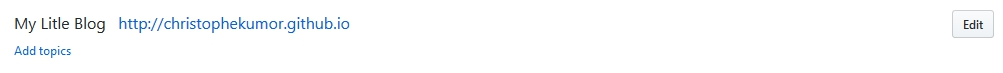
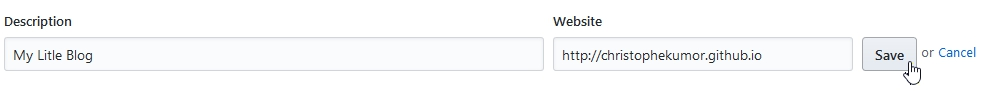
article brut

diff --git a/_posts/2017/2017-04-28-GitHubBlogInstall.md b/_posts/2017/2017-04-28-GitHubBlogInstall.md
@@ -31,19 +31,87 @@ Dédicasse à <b>Thierry Degols</b> ;-) j'espere répondre à tes attentes.
 Pour creer un blog sur Github la premiere chose à faire est de creer un nouveau "repositorie"
 
 Sur sa page Github, on se rend donc dans "Repositories" 
-![image-center](assets/images/articles/2017-04-28-GitHubBlogInstall/Step0a.jpg)
+
+![image-center](/assets/images/articles/2017-04-28-GitHubBlogInstall/Step0a.jpg)
 
 
-puis on clique sur le bouton "New" : 
-![image-center](assets/images/articles/2017-04-28-GitHubBlogInstall/Step0b.jpg)
+puis on clique sur le bouton "New" :
 
-![image-center](assets/images/articles/2017-04-28-GitHubBlogInstall/Step1.jpg)
+![image-center](/assets/images/articles/2017-04-28-GitHubBlogInstall/Step0b.jpg)
 
-<table>
-<p>
-Big Big thanks to <b>LazyWinAdmin</b>  (<a href="https://lazywinadmin.github.io/">Blog</a>), without his help/blog you'll not have read this here..He is an example and a reference for me for a long long time</td>
-</p>
-<p>
-Another Big Big thanks to <b>Mickyballadelli</b>  (<a href="https://balladelli.com/author/micky/">Blog</a>), to raise my motivation to share my experience with the community and just to be here for me.</td>
-</p>
-</table>
+On arrive alors dans le process normal de création d'un "repositorie"
+
+![image-center](/assets/images/articles/2017-04-28-GitHubBlogInstall/Step1.jpg)
+
+Il faut :
+- un nom. Exemple : christophekumor.github.io
+
+il faut respecter ce format de nom cela permetra d'avoir une url en https://christophekumor.github.io
+
+<a href='https://help.github.com/articles/user-organization-and-project-pages/' target = '_blank'>Plus d'informations..
+</a>
+
+- Une description : Apparaitra juste dans le "repositorie" mais c'est toujours plus sympas.
+- Choisir public ou Private. Private étant payant. à vous de voir
+- Cocher "Initialize this repository with a README" 
+
+Pour finir cliquer sur :
+
+![image-center](/assets/images/articles/2017-04-28-GitHubBlogInstall/Step2.jpg)
+
+Vous allez revenir sur votre repo fraichement créé, Je vous conseil d'ajouter un lien vers votre blog directement sur la page de votre repo, pour cela dans la barre de Titre du repo, cliquez sur le bouton "Edit":
+
+![image-center](/assets/images/articles/2017-04-28-GitHubBlogInstall/Step3.jpg)
+
+Ajoutez le lien en https (ne pas faire comme sur la photo ci dessous ou j avais juste mis http) de votre blog, en principe si vous avez bien utilisé le formalisme lors de la déclaration, celui ci doit etre de la forme https://votrenomdecomptegithub.github.io
+
+Il ne reste plus qu'a sauvegarder avec le bouton "Save"
+
+![image-center](/assets/images/articles/2017-04-28-GitHubBlogInstall/Step4.jpg)
+
+Vous voila revenu sur la page d'acceuil de votre repository, avec un jolie lien vers votre blog.
+
+![image-center](/assets/images/articles/2017-04-28-GitHubBlogInstall/Step5.jpg)
+
+Ce n'est pas fini, il vous faut choisir un theme pour votre site, pour cela toujours dans votre nouveau repository, vous cliquez sur l'onglet "Settings"
+
+![image-center](/assets/images/articles/2017-04-28-GitHubBlogInstall/Step6.jpg)
+
+Puis vers le bas de la page, cliquez sur "Choose a theme"
+
+![image-center](/assets/images/articles/2017-04-28-GitHubBlogInstall/Step7.jpg)
+
+Faite votre choix parmis les themes proposés par github via les vignettes du haut de la page, une fois votre choix effectué, cliquez sur le bouton "Select theme"
+
+![image-center](/assets/images/articles/2017-04-28-GitHubBlogInstall/Step8.jpg)
+
+Il se peut que l'on vous demande de modifier le README.md de votre site, vous pouvez faire cancel et le faire plus tard..
+
+Pour les besoins du tutorial j'ai refait un repo de test, donc ici on me propose de modifier le Readme.md. J'ai donc fait cancel
+
+![image-center](/assets/images/articles/2017-04-28-GitHubBlogInstall/Step9.jpg)
+
+Une fois revenu sur la page de votre repository, vous avez le message avec le choix du theme qui a été appliqué
+
+![image-center](/assets/images/articles/2017-04-28-GitHubBlogInstall/Step10.jpg)
+
+Pour vérifier l'url de votre Blog, il faut aller à nouveau dans l'onglet "setting"
+
+![image-center](/assets/images/articles/2017-04-28-GitHubBlogInstall/Step6.jpg)
+
+Vers le bas de la page, vous aurez l'information de publication de votre site :
+
+![image-center](/assets/images/articles/2017-04-28-GitHubBlogInstall/Step11.jpg)
+
+ici on voit clairement ce qui ce passe lorsque l'on ne repecte pas le formalisme dont j'ai parlé à l'etape du choix de nom de repository ou lorsqu'un repository "site/blog" existe deja, il va publier votre "site/blog" comme un sous repertoire de votre "site/blog" principal.
+
+And Voila ! vous etes en ligne !!
+
+## CONCLUSION
+Github supporte nativement le language Jekyll pour la conception de vos pages ou de vos posts, cela ne fera pas l'object de ce tutorial.
+Etant moi meme en plein apprentissage, je vais avoir du mal à donner des conseils..
+
+En revanche voici le lien vers le site officiel : 
+
+<a href='https://jekyllrb.com/' target = '_blank' alt = 'Lien vers le site de jekyll'>![image-left](/assets/images/jekyll.png)</a>
+
